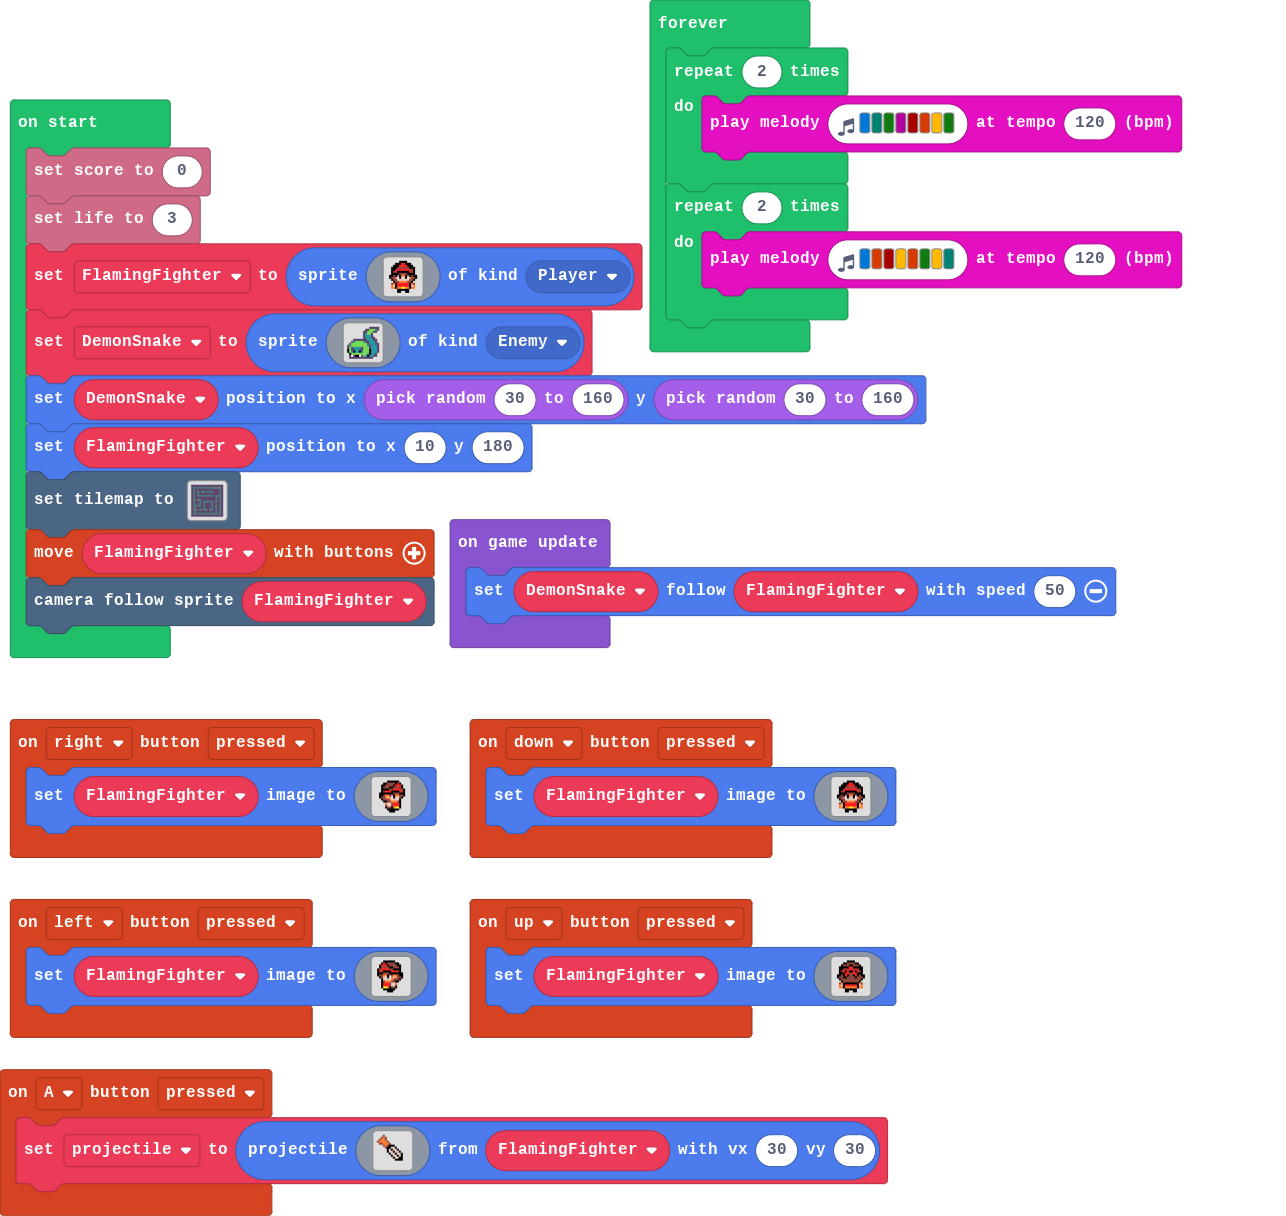
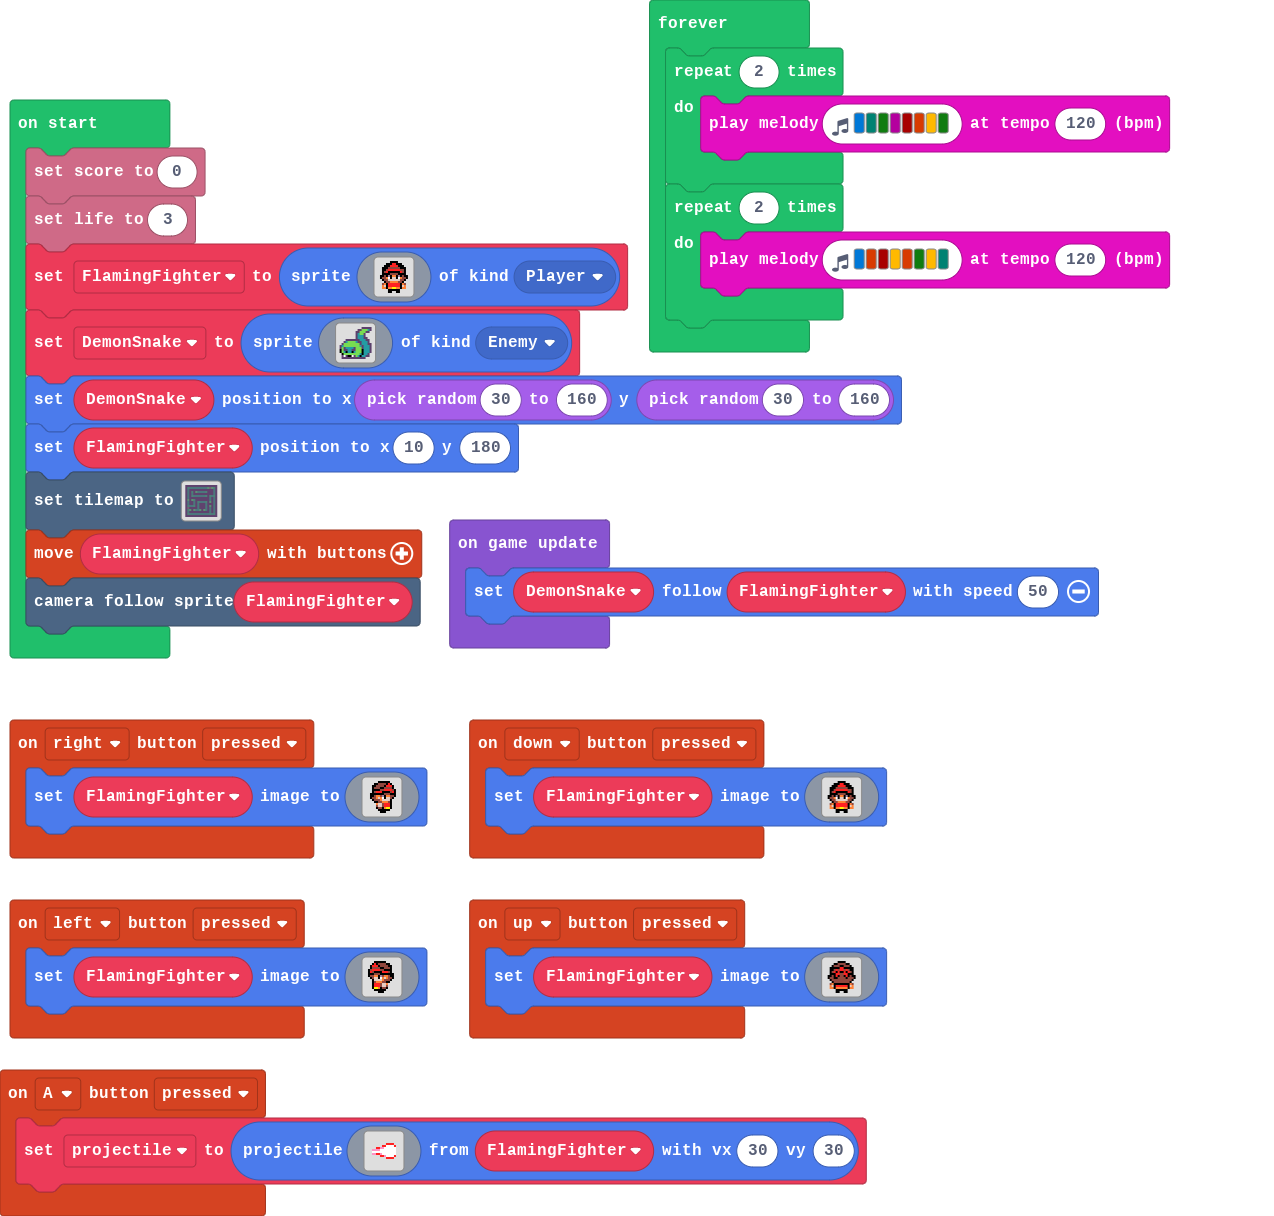
Update main.blocks, main.ts, images.g.jres, images.g.ts

diff --git a/images.g.ts b/images.g.ts
@@ -118,20 +118,20 @@ f 7 6 f 6 6 f 6 7 7 7 f 6 6 6 c
 . c c c c c c c c c c c c . . . 
 `;
             case "cJ{l}NuGlarPVZGEWF2t":
-            case "Knife":return img`
-. . . e . . . . . . . . . . . . 
-. . e 4 e . . . . . . . . . . . 
-. e 4 4 e . . . . . . . . . . . 
-e 4 4 4 4 e . . . . . . . . . . 
-. e e 4 4 4 e . . . . . . . . . 
-. . . e 4 e f f f . . . . . . . 
-. . . . e f f d d f . . . . . . 
-. . . . . f d f d d f . . . . . 
-. . . . . f d d f d d f . . . . 
-. . . . . . f d d f d d f . . . 
-. . . . . . . f d d f d f . . . 
-. . . . . . . . f d d f f . . . 
-. . . . . . . . . f f f f . . . 
+            case "Weapon":return img`
+. . . . . . . . . . . . . . . . 
+. . . . . . . . . . . . . . . . 
+. . . . . . . . . . . . . . . . 
+. . . . . . . . . . . . . . . . 
+. . . . . . . . . 2 2 2 2 . . . 
+. . . . . . . 2 2 1 1 1 1 2 . . 
+. . . . 2 2 3 3 1 1 1 1 1 1 . . 
+. . 3 3 3 3 1 1 1 1 1 1 1 1 . . 
+. . 1 1 1 1 1 1 1 1 1 1 1 1 . . 
+. . 3 3 2 2 3 1 1 1 1 1 1 1 . . 
+. . . . . . 2 2 3 1 1 1 1 2 . . 
+. . . . . . . . . 2 2 2 2 . . . 
+. . . . . . . . . . . . . . . . 
 . . . . . . . . . . . . . . . . 
 . . . . . . . . . . . . . . . . 
 . . . . . . . . . . . . . . . . 
@@ -142,7 +142,59 @@ e 4 4 4 4 e . . . . . . . . . .
 
     helpers._registerFactory("animation", function(name: string) {
         switch(helpers.stringTrim(name)) {
-
+            case "Lazer Weapon":
+            case "anim1":return [img`
+. . . . . . . . . . . . . . . . 
+. . . . . . . . . . . . . . . . 
+. . . . . . . . . . . . . . . . 
+. . . . . . . . . . . . . . . . 
+. . . . . . . . . 2 2 2 2 . . . 
+. . . . . . . 2 2 1 1 1 1 2 . . 
+. . . . 2 2 3 3 1 1 1 1 1 1 . . 
+. . 3 3 3 3 1 1 1 1 1 1 1 1 . . 
+. . 1 1 1 1 1 1 1 1 1 1 1 1 . . 
+. . 3 3 2 2 3 1 1 1 1 1 1 1 . . 
+. . . . . . 2 2 3 1 1 1 1 2 . . 
+. . . . . . . . . 2 2 2 2 . . . 
+. . . . . . . . . . . . . . . . 
+. . . . . . . . . . . . . . . . 
+. . . . . . . . . . . . . . . . 
+. . . . . . . . . . . . . . . . 
+`, img`
+. . . . . . . . . . . . . . . . 
+. . . . . . . . . . . . . . . . 
+. . . . . . . 1 1 3 . . . . . . 
+. . . . . . 1 3 . 3 3 . . . . . 
+. . . . . . 1 . . . 3 2 2 3 . . 
+. . . . . 1 3 . . . 2 2 1 3 3 . 
+. . . . . 1 3 . 2 2 3 1 1 1 3 . 
+. . 2 2 2 1 3 3 3 3 3 1 1 1 3 . 
+. . 1 1 1 1 3 1 1 1 1 1 1 1 3 . 
+. . 2 2 2 1 3 3 3 3 3 1 1 1 3 . 
+. . . . . 1 3 . 2 2 3 1 1 1 3 . 
+. . . . . 1 3 . . . 2 2 1 3 3 . 
+. . . . . . 1 . . . 3 2 2 3 . . 
+. . . . . . 1 3 . 3 3 . . . . . 
+. . . . . . . 1 1 3 . . . . . . 
+. . . . . . . . . . . . . . . . 
+`, img`
+. . . . . . . . . . . . . . . . 
+. . . . . 3 3 . . . 3 . . . . . 
+. . . . 3 3 . . . . 3 3 . . . . 
+. . . . 3 . . . . . . 3 3 . . . 
+. . . . . . . . . . . . 3 . . . 
+. . . . . . . . . . . . . . . . 
+. . 3 . . . . . . . . . . . . . 
+. . 3 . . . . . . . . . . 3 . . 
+. . 3 . . . . . . . . . . 3 . . 
+. . . . . . . . . . . . . 3 . . 
+. . . . . . . . . . . . . . . . 
+. . . 3 . . . . . . . . . . . . 
+. . . 3 3 . . . . . . 3 . . . . 
+. . . . 3 3 . . . . 3 3 . . . . 
+. . . . . . . . . 3 3 . . . . . 
+. . . . . . . . . . . . . . . . 
+`];
         }
         return null;
     })

diff --git a/main.ts b/main.ts
@@ -2,7 +2,7 @@ controller.up.onEvent(ControllerButtonEvent.Pressed, function () {
     FlamingFighter.setImage(assets.image`Flaming Fighter - facing backwards`)
 })
 controller.A.onEvent(ControllerButtonEvent.Pressed, function () {
-    projectile = sprites.createProjectileFromSprite(assets.image`Knife`, FlamingFighter, 30, 30)
+    projectile = sprites.createProjectileFromSprite(assets.image`Weapon`, FlamingFighter, 30, 30)
 })
 controller.left.onEvent(ControllerButtonEvent.Pressed, function () {
     FlamingFighter.setImage(assets.image`Flaming Fighter - facing left`)
